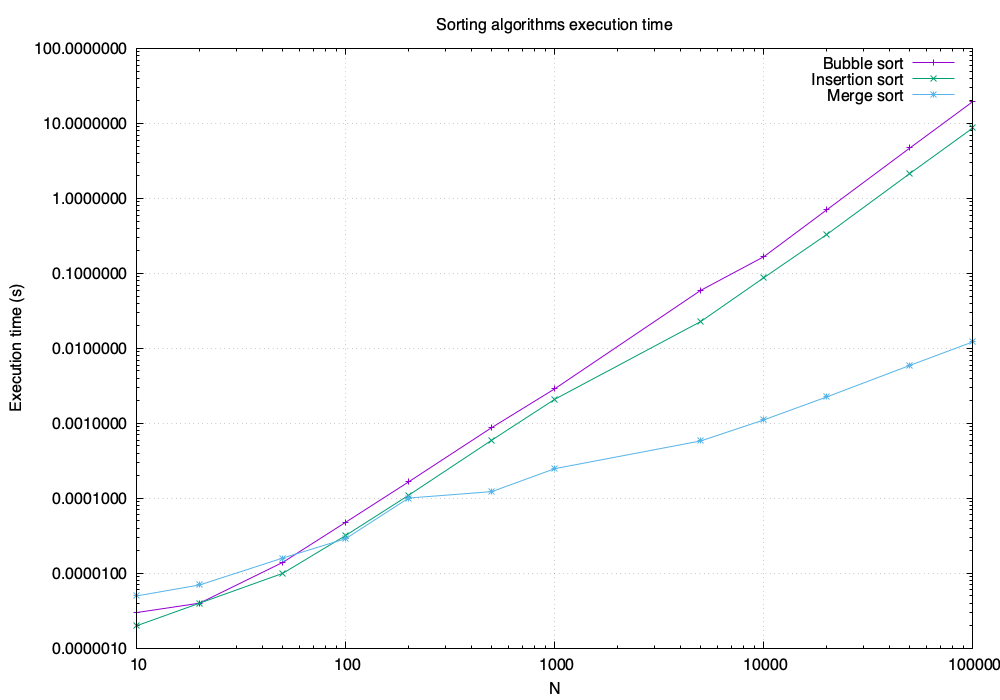
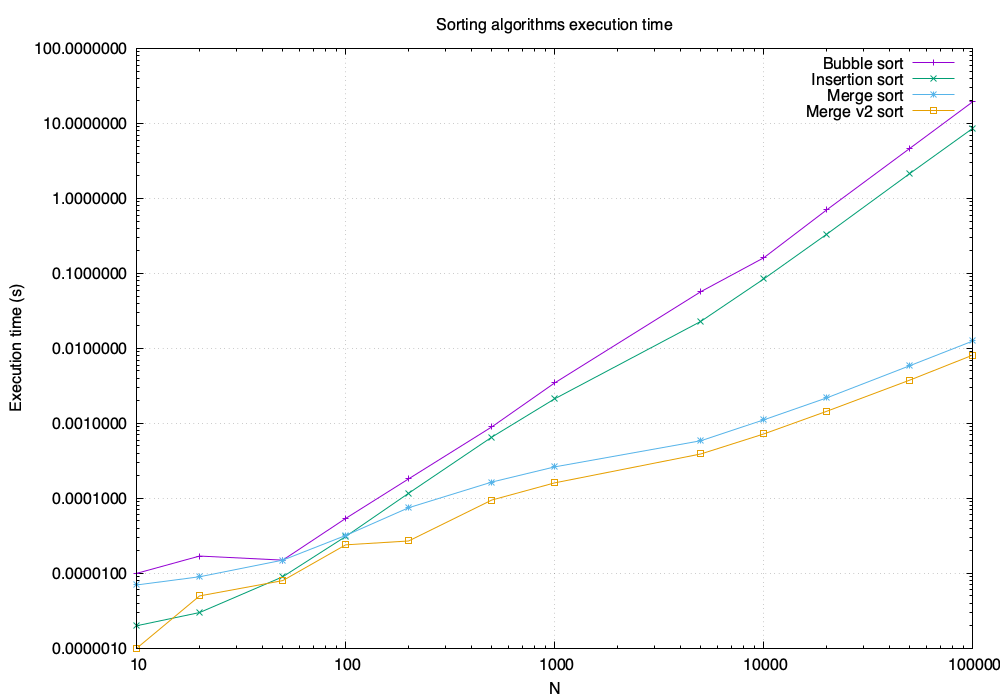
added merge v2 in sorting.c and new plot

diff --git a/TP1/ex2/sorting.c b/TP1/ex2/sorting.c
@@ -84,6 +84,56 @@ void merge_sort(int* T, int p, int r){
     }
 }
 
+void merge2_subroutine(int *TI, int *TF, int p, int q, int r){
+    int i = p;
+    int j = q + 1;
+    int k = p;
+
+    while (i <= q && j <= r) {
+        if (TI[i] < TI[j]) {
+            TF[k] = TI[i];
+            i++;
+        }
+        else {
+            TF[k] = TI[j];
+            j++;
+        }
+        k++;
+    }
+
+    while (i <= q) {
+        TF[k] = TI[i];
+        i++;
+        k++;
+    }
+
+    while (j <= r) {
+        TF[k] = TI[j];
+        j++;
+        k++;
+    }
+
+
+}
+
+void merge2_sort_internal(int* F, int* I, int p, int r){
+    if(p < r){
+        int q = (p+r)/2;
+        merge2_sort_internal(I, F, p, q);
+        merge2_sort_internal(I, F, q + 1, r);
+        merge2_subroutine(F, I, p, q, r);
+    }
+}
+
+void merge2_sort(int *T, int N){
+    int* B = malloc(sizeof(int) * N);
+    for (int i = 0; i < N; i++) {
+        B[i] = T[i];
+    }
+    merge2_sort_internal(B, T, 0, N-1);
+    free(B);
+}
+
 int main(int argc, char * argv[]) {
     int sizes[] = {10, 20, 50, 100, 200, 500, 1000, 5000, 10000, 20000, 50000, 100000};
     srand(time(NULL));
@@ -100,6 +150,7 @@ int main(int argc, char * argv[]) {
         int *bubble_tab = malloc(sizeof(int) * n);
         int *insertion_tab = malloc(sizeof(int) * n);
         int *merge_tab = malloc(sizeof(int) * n);
+        int *merge2_tab = malloc(sizeof(int) * n);
 
         for (int i=0; i < n; i++){
             original[i] = (rand() % 100) + 1;
@@ -108,6 +159,8 @@ int main(int argc, char * argv[]) {
         memcpy(bubble_tab, original, sizeof(int) * n);
         memcpy(insertion_tab, original, sizeof(int) * n);
         memcpy(merge_tab, original, sizeof(int) * n);
+        memcpy(merge2_tab, original, sizeof(int) * n);
+
 
         clock_t start = clock();
         bubblesort(bubble_tab, n);
@@ -124,12 +177,19 @@ int main(int argc, char * argv[]) {
         end = clock();
         double merge_time = (double)(end - start) / CLOCKS_PER_SEC;
 
-        fprintf(file, "%d %f %f %f\n", n, bubble_time, insertion_time, merge_time);
+        start = clock();
+        merge2_sort(merge2_tab, n - 1);
+        end = clock();
+        double merge2_time = (double)(end - start) / CLOCKS_PER_SEC;
+
+        fprintf(file, "%d %f %f %f %f\n", n, bubble_time, insertion_time, merge_time, merge2_time);
 
         free(original);
         free(bubble_tab);
         free(insertion_tab);
         free(merge_tab);
+        free(merge2_tab);
+
     }
 
     fclose(file);
